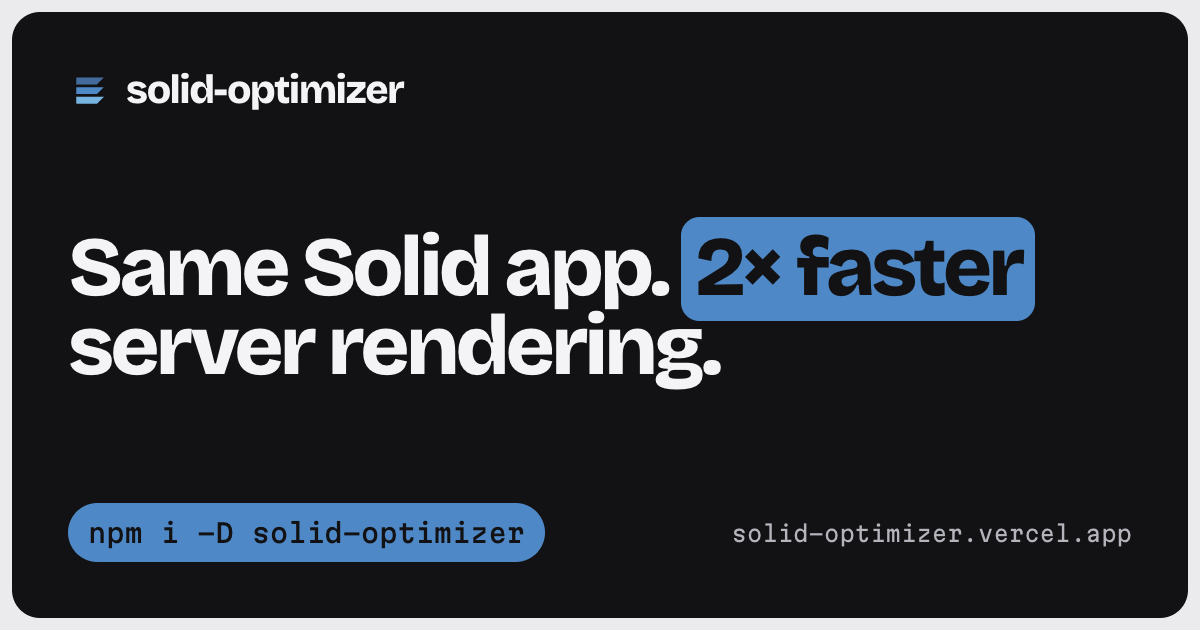
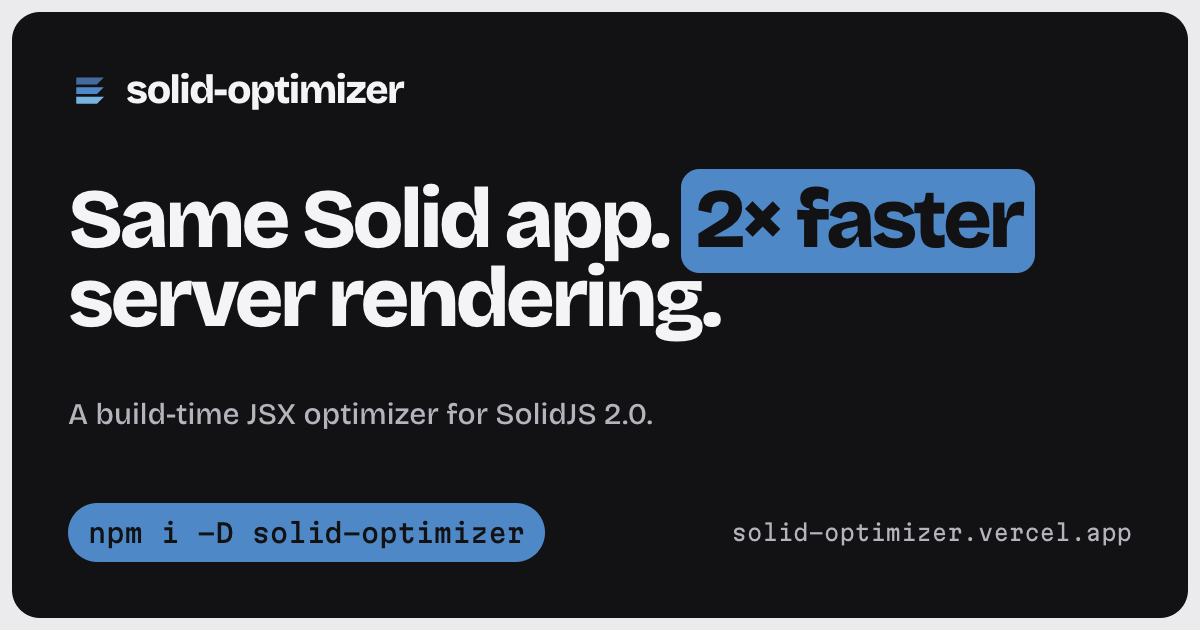
feat(website): say what solid-optimizer is on the link preview
The headline says what you get and the install command shows it is a
package, but not that it is a build step. A line under the headline now
says: a build-time JSX optimizer for SolidJS 2.0.

diff --git a/website/scripts/og.html b/website/scripts/og.html
@@ -41,6 +41,11 @@
       .og-main {
         gap: 32px;
       }
+      .og-title + .og-tagline {
+        margin: -12px 0 0;
+        color: var(--on-ink-muted);
+        font: 500 30px/1.3 var(--font-sans);
+      }
       .og-foot {
         display: flex;
         align-items: center;
@@ -68,6 +73,7 @@
           solid-optimizer
         </span>
         <h1 class="og-title">Same Solid app. <em>2× faster</em> server rendering.</h1>
+        <p class="og-tagline">A build-time JSX optimizer for SolidJS 2.0.</p>
         <div class="og-foot">
           <code class="og-install">npm i -D solid-optimizer</code>
           <span class="og-url">solid-optimizer.vercel.app</span>
